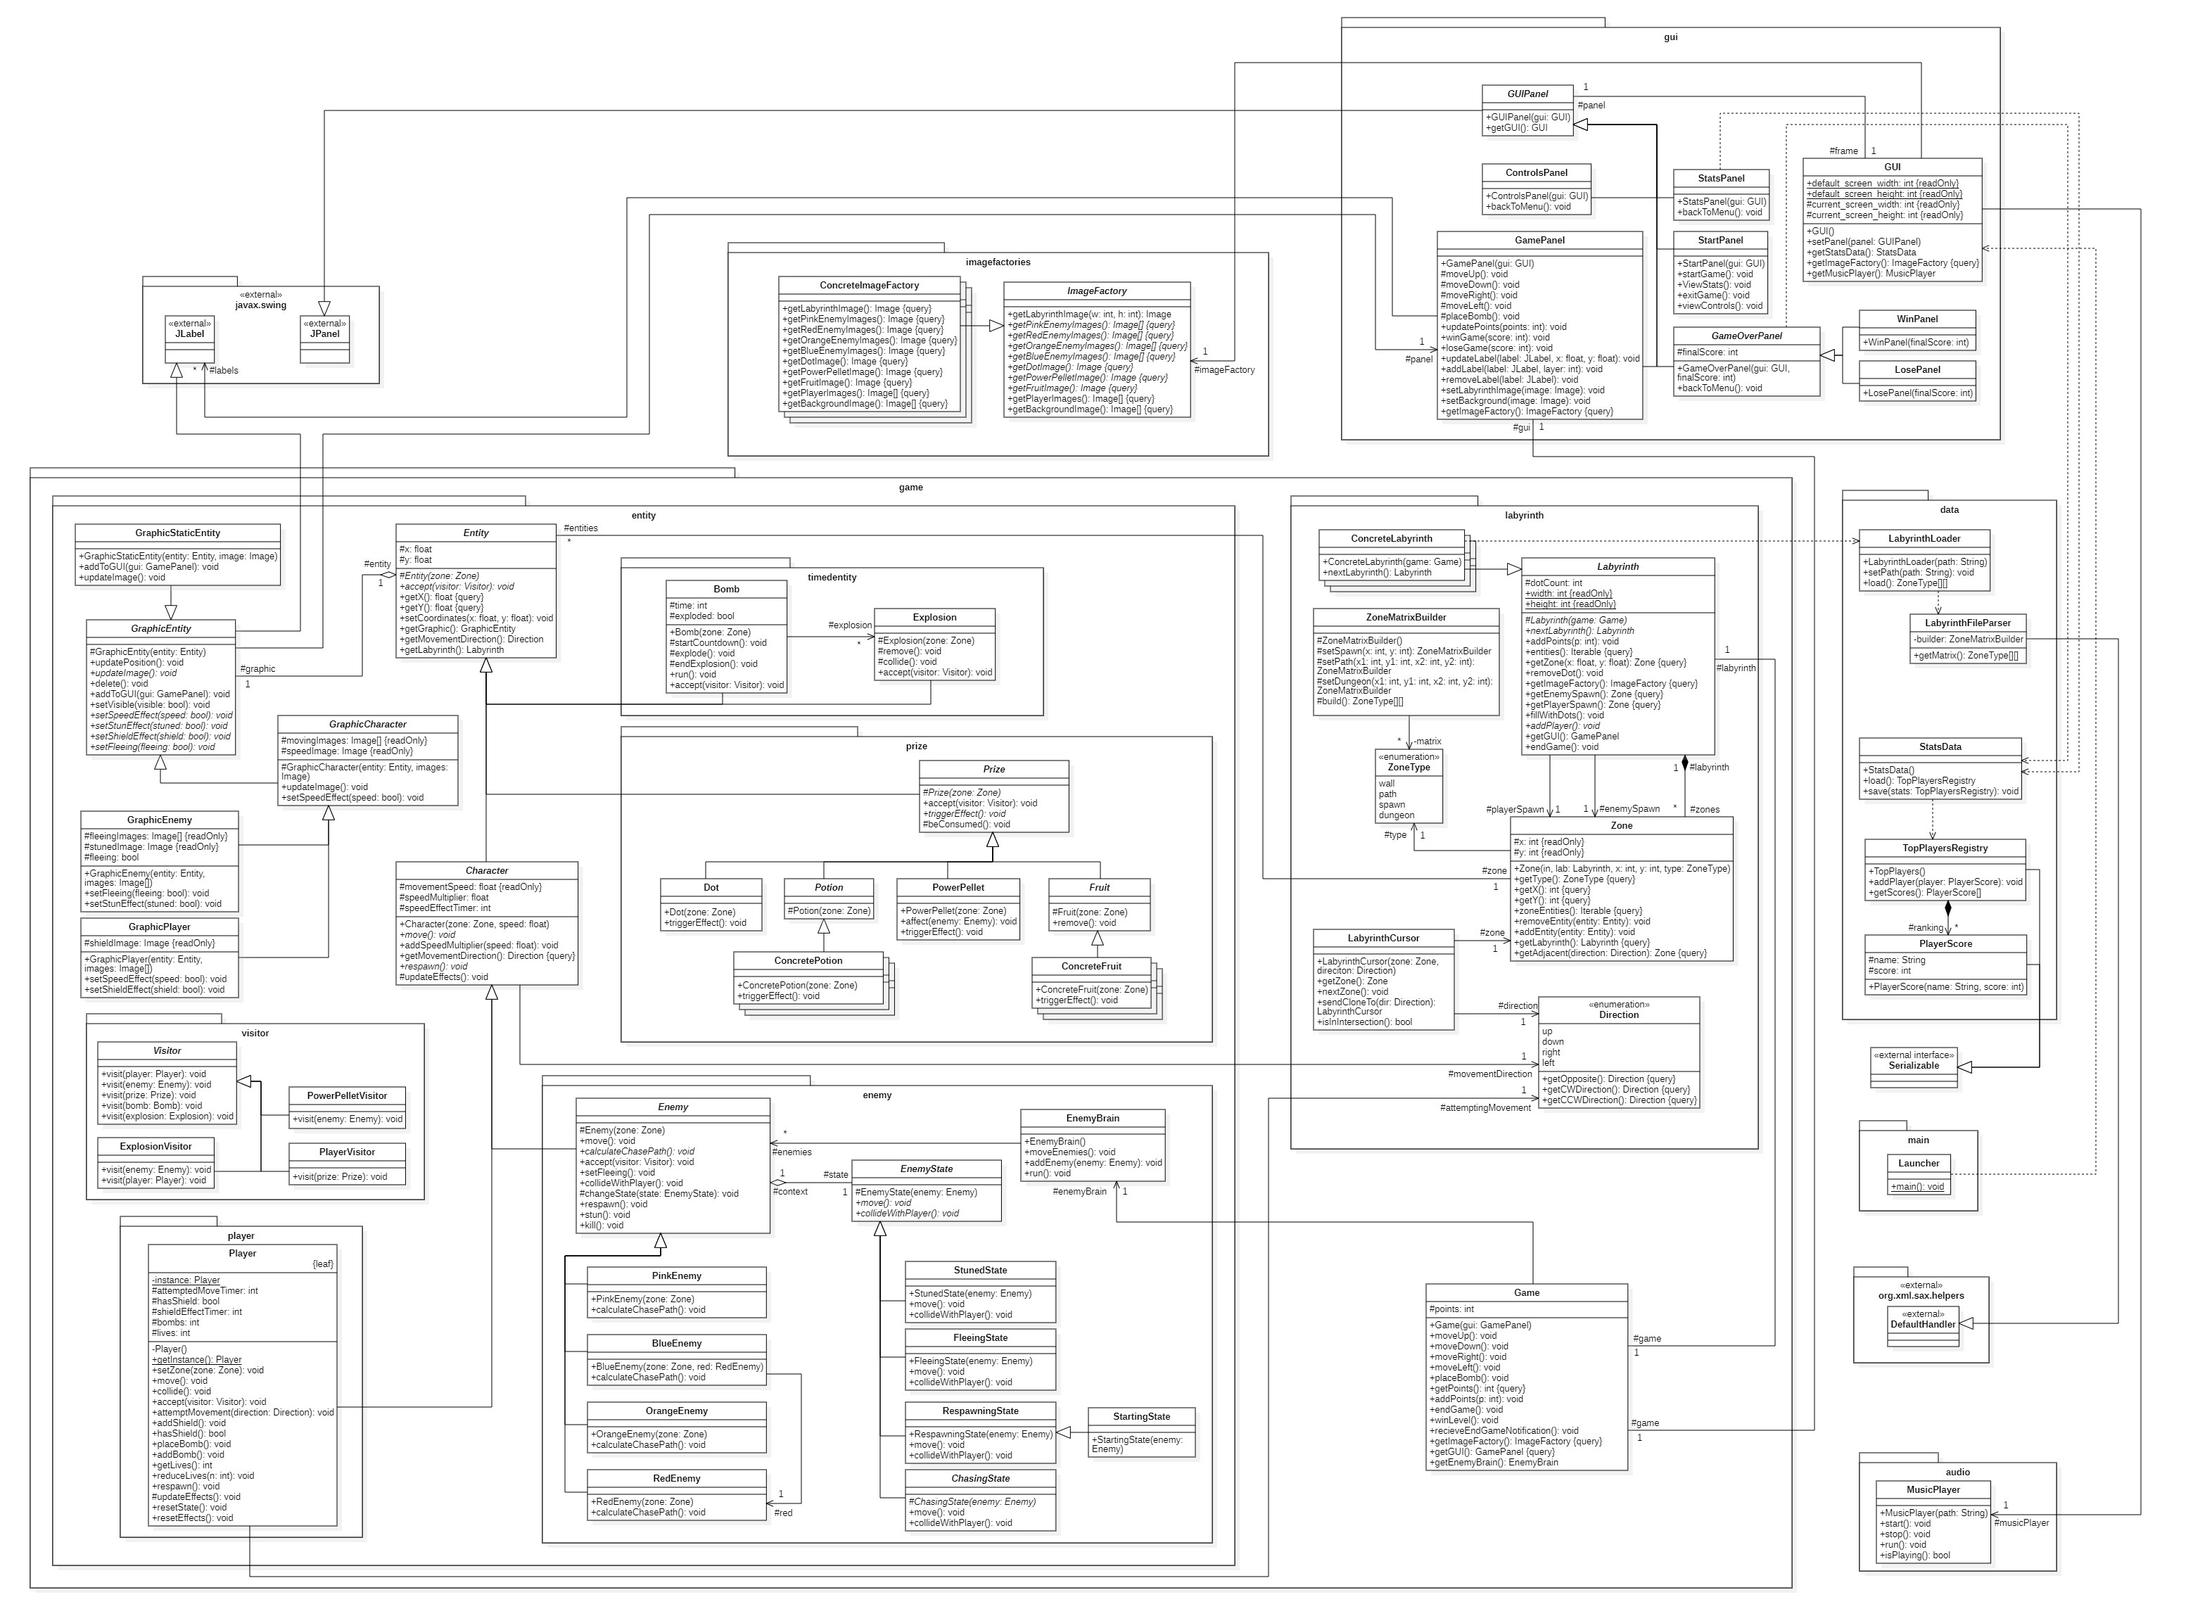
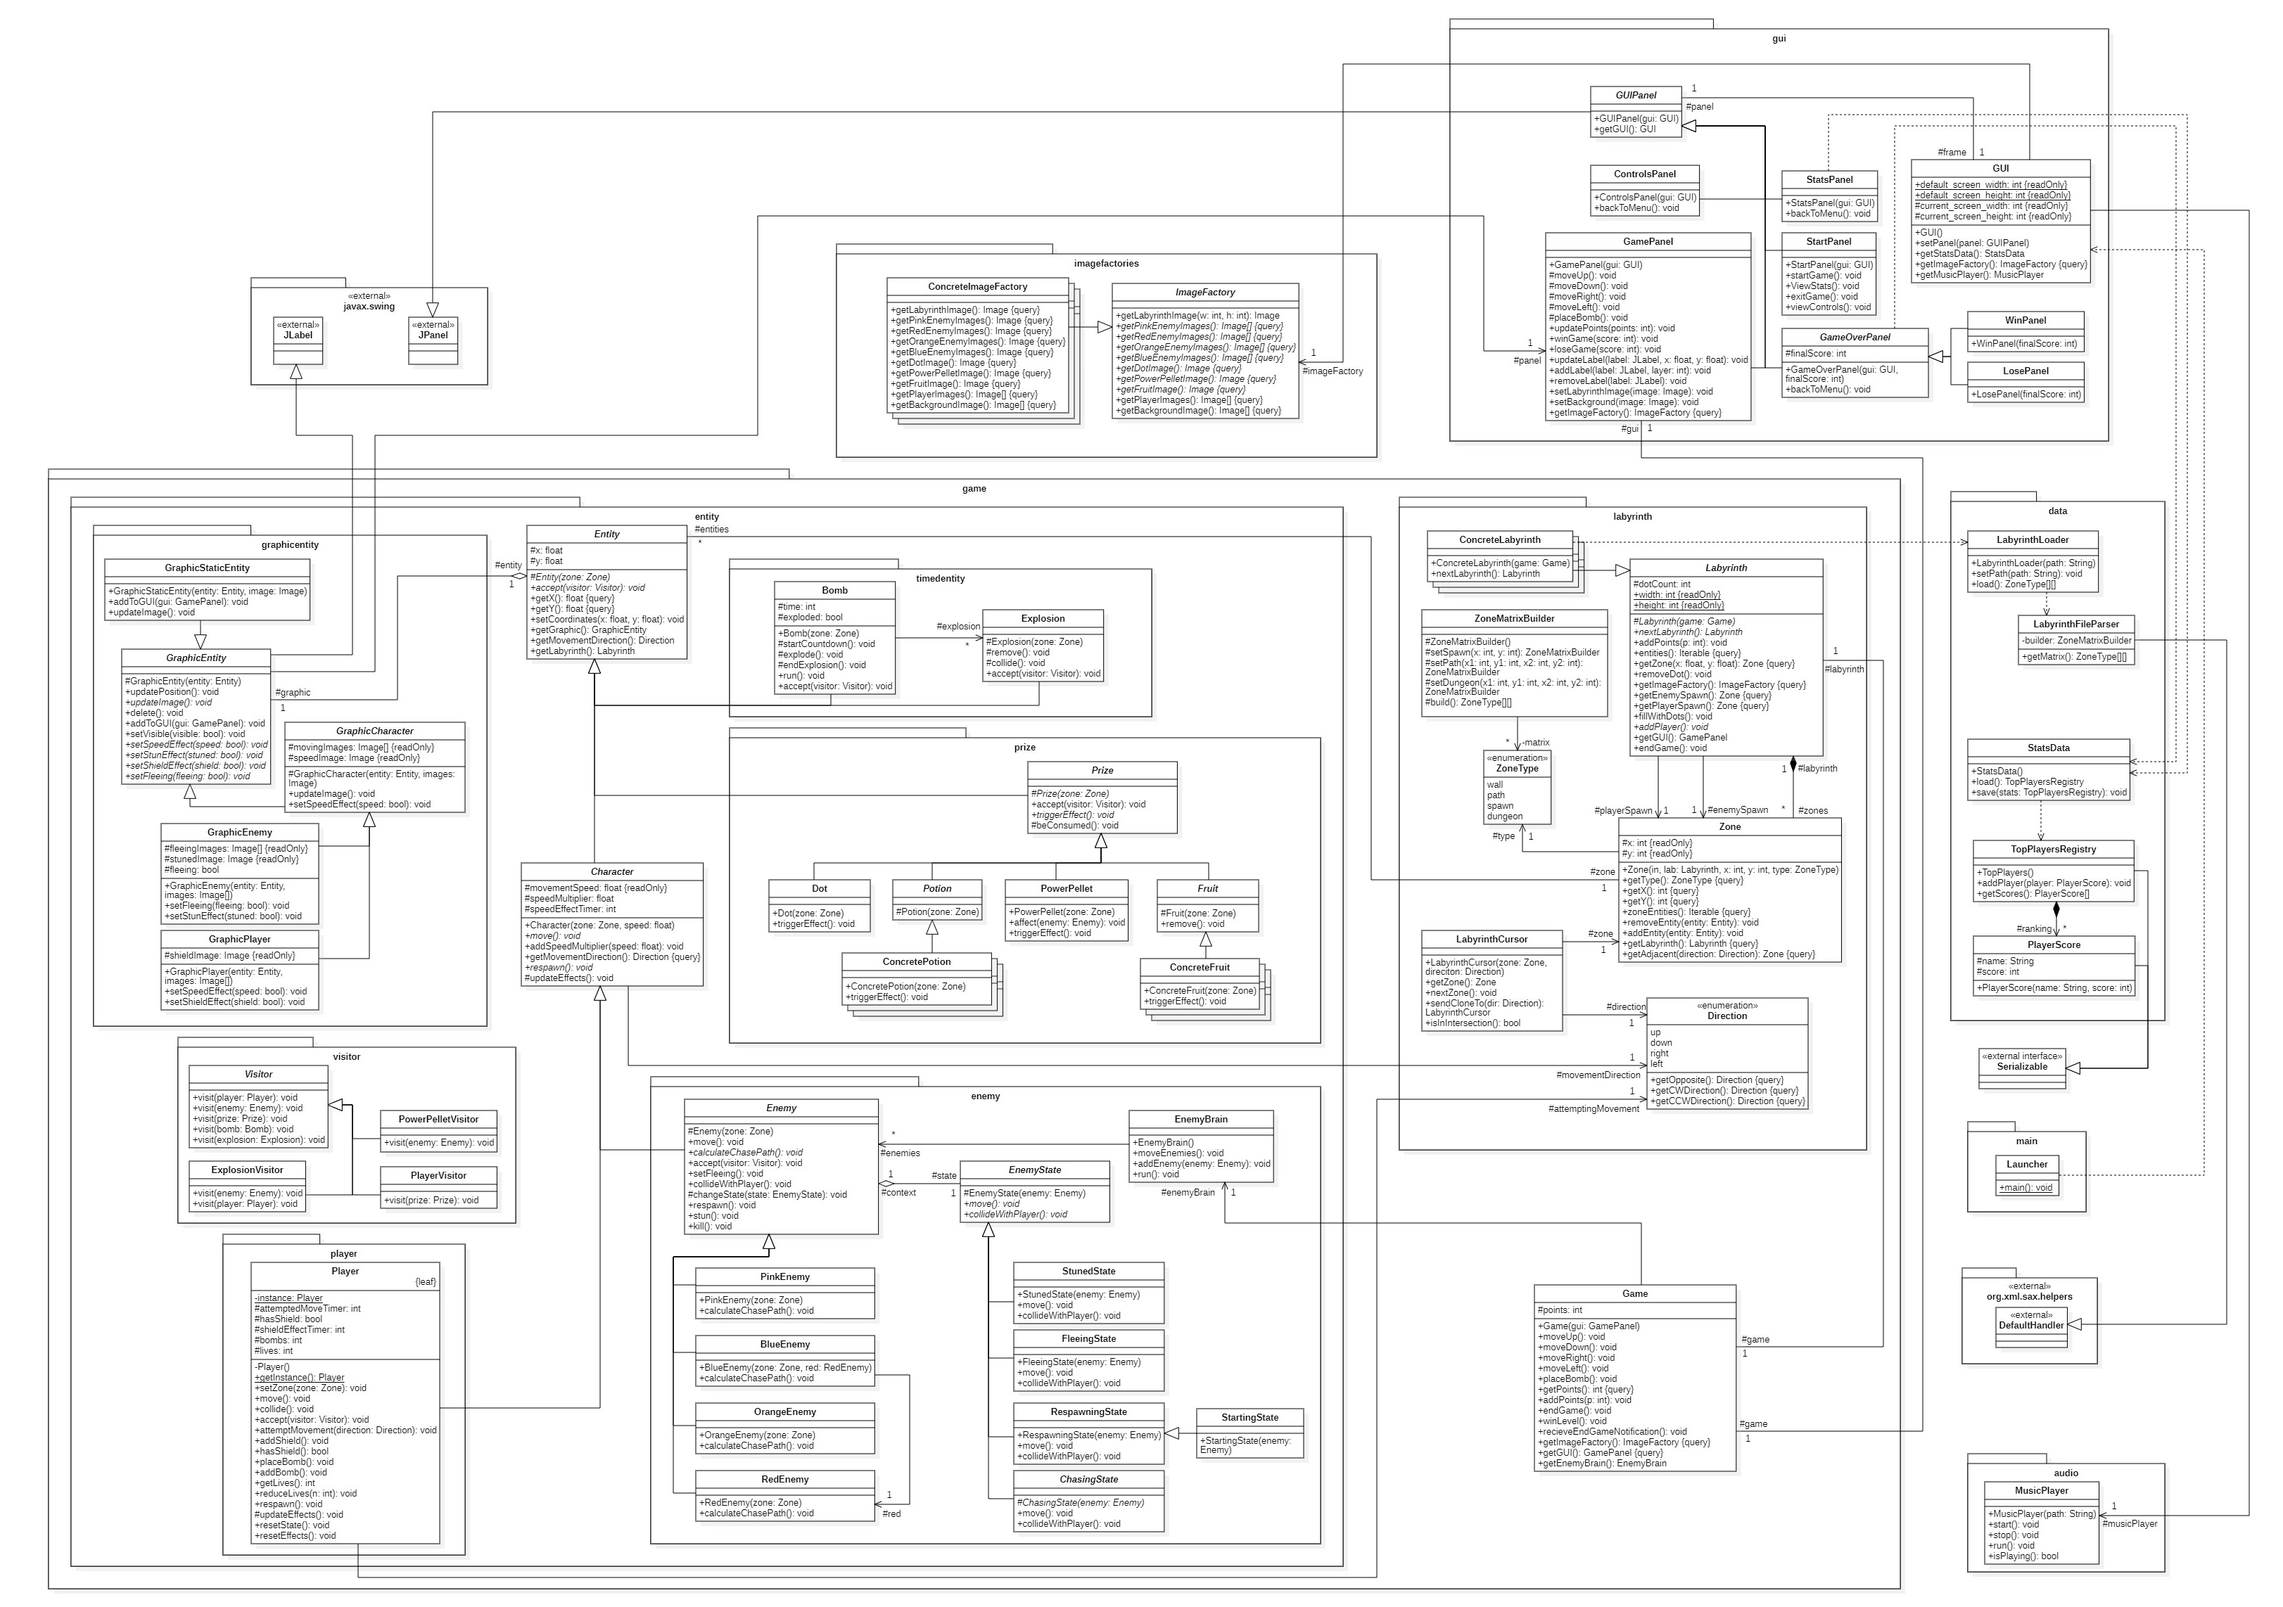
Actualizado diagrama de clases completo
Actualizado diagrama de clases reducido

Creado nuevo paquete

Movido entidades graficas al nuevo paquete

diff --git a/src/game/entity/player/Player.java b/src/game/entity/player/Player.java
@@ -6,8 +6,8 @@ import game.labyrinth.ZoneType;
 import exceptions.InvalidZoneException;
 import game.Game;
 import game.entity.Entity;
+import game.entity.graphicentity.GraphicPlayer;
 import game.entity.Character;
-import game.entity.GraphicPlayer;
 import game.entity.timedentity.Bomb;
 import game.entity.visitor.PlayerVisitor;
 import game.entity.visitor.Visitor;

diff --git a/src/game/entity/timedentity/Bomb.java b/src/game/entity/timedentity/Bomb.java
@@ -7,7 +7,7 @@ import java.util.Set;
 
 import game.Game;
 import game.entity.Entity;
-import game.entity.GraphicStaticEntity;
+import game.entity.graphicentity.GraphicStaticEntity;
 import game.entity.visitor.ExplosionVisitor;
 import game.entity.visitor.Visitor;
 import game.labyrinth.Direction;

diff --git a/src/game/entity/enemy/OrangeEnemy.java b/src/game/entity/enemy/OrangeEnemy.java
@@ -7,7 +7,7 @@ import static java.lang.Math.toIntExact;
 
 import exceptions.InvalidZoneException;
 import game.Game;
-import game.entity.GraphicEnemy;
+import game.entity.graphicentity.GraphicEnemy;
 import game.entity.player.Player;
 import game.labyrinth.Direction;
 import game.labyrinth.Zone;

diff --git a/src/game/entity/enemy/PinkEnemy.java b/src/game/entity/enemy/PinkEnemy.java
@@ -2,7 +2,7 @@ package game.entity.enemy;
 
 import exceptions.InvalidZoneException;
 import game.Game;
-import game.entity.GraphicEnemy;
+import game.entity.graphicentity.GraphicEnemy;
 import game.entity.player.Player;
 import game.labyrinth.Direction;
 import game.labyrinth.LabyrinthCursor;

diff --git a/src/game/entity/enemy/BlueEnemy.java b/src/game/entity/enemy/BlueEnemy.java
@@ -2,7 +2,7 @@ package game.entity.enemy;
 
 import exceptions.InvalidZoneException;
 import game.Game;
-import game.entity.GraphicEnemy;
+import game.entity.graphicentity.GraphicEnemy;
 import game.entity.player.Player;
 import game.labyrinth.Direction;
 import game.labyrinth.Labyrinth;

diff --git a/src/game/entity/enemy/RedEnemy.java b/src/game/entity/enemy/RedEnemy.java
@@ -2,7 +2,7 @@ package game.entity.enemy;
 
 import exceptions.InvalidZoneException;
 import game.Game;
-import game.entity.GraphicEnemy;
+import game.entity.graphicentity.GraphicEnemy;
 import game.entity.player.Player;
 import game.labyrinth.Direction;
 import game.labyrinth.Zone;

diff --git a/src/game/entity/prize/PowerPellet.java b/src/game/entity/prize/PowerPellet.java
@@ -1,7 +1,7 @@
 package game.entity.prize;
 
 import game.entity.Entity;
-import game.entity.GraphicStaticEntity;
+import game.entity.graphicentity.GraphicStaticEntity;
 import game.entity.visitor.PowerPelletVisitor;
 import game.entity.visitor.Visitor;
 import game.labyrinth.Zone;

diff --git a/src/game/entity/timedentity/Explosion.java b/src/game/entity/timedentity/Explosion.java
@@ -1,7 +1,7 @@
 package game.entity.timedentity;
 
 import game.entity.Entity;
-import game.entity.GraphicStaticEntity;
+import game.entity.graphicentity.GraphicStaticEntity;
 import game.entity.visitor.Visitor;
 import game.labyrinth.Zone;
 

diff --git a/src/game/entity/Entity.java b/src/game/entity/Entity.java
@@ -1,6 +1,7 @@
 package game.entity;
 
 import exceptions.InvalidZoneException;
+import game.entity.graphicentity.GraphicEntity;
 import game.entity.visitor.Visitor;
 import game.labyrinth.Direction;
 import game.labyrinth.Labyrinth;

diff --git a/src/game/entity/prize/PotionBomb.java b/src/game/entity/prize/PotionBomb.java
@@ -1,6 +1,6 @@
 package game.entity.prize;
 
-import game.entity.GraphicStaticEntity;
+import game.entity.graphicentity.GraphicStaticEntity;
 import game.entity.player.Player;
 import game.labyrinth.Zone;
 

diff --git a/src/game/entity/prize/PotionShield.java b/src/game/entity/prize/PotionShield.java
@@ -1,6 +1,6 @@
 package game.entity.prize;
 
-import game.entity.GraphicStaticEntity;
+import game.entity.graphicentity.GraphicStaticEntity;
 import game.entity.player.Player;
 import game.labyrinth.Zone;
 

diff --git a/src/game/entity/prize/PotionSpeed.java b/src/game/entity/prize/PotionSpeed.java
@@ -1,6 +1,6 @@
 package game.entity.prize;
 
-import game.entity.GraphicStaticEntity;
+import game.entity.graphicentity.GraphicStaticEntity;
 import game.entity.player.Player;
 import game.labyrinth.Zone;
 
